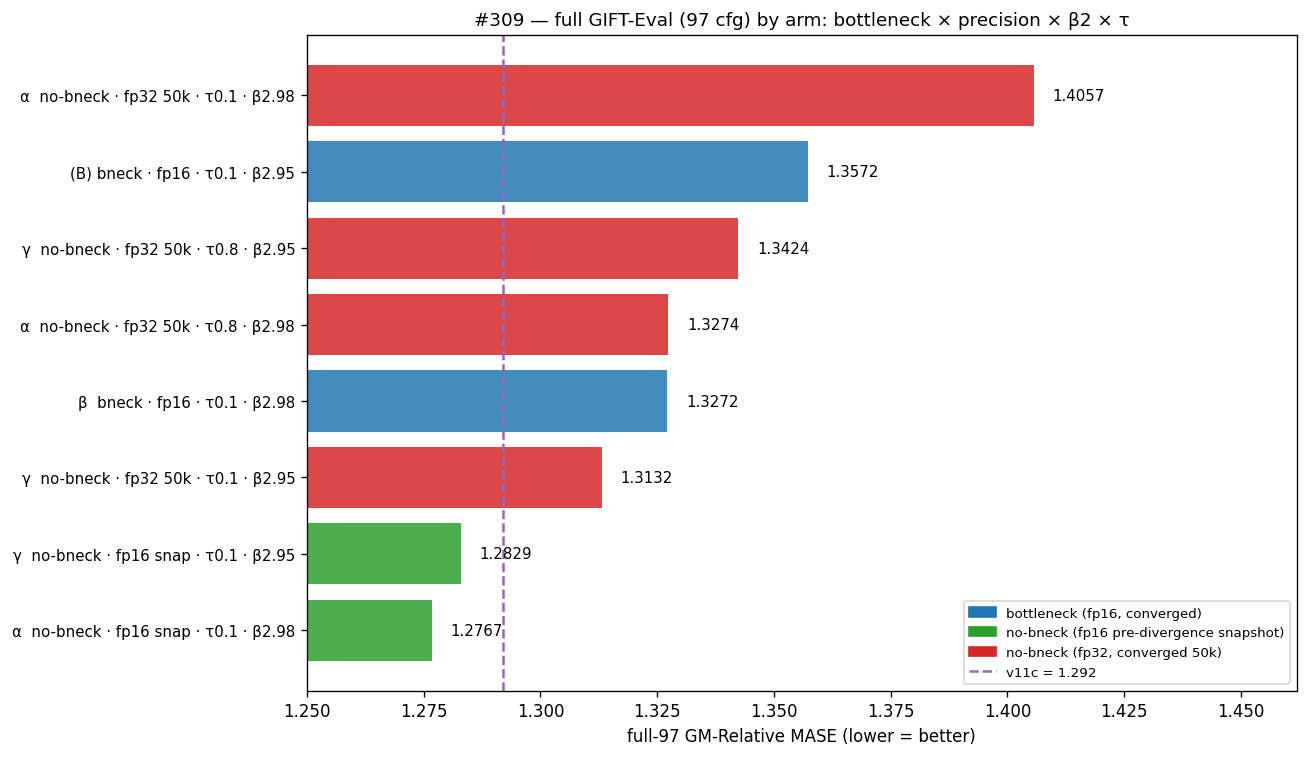
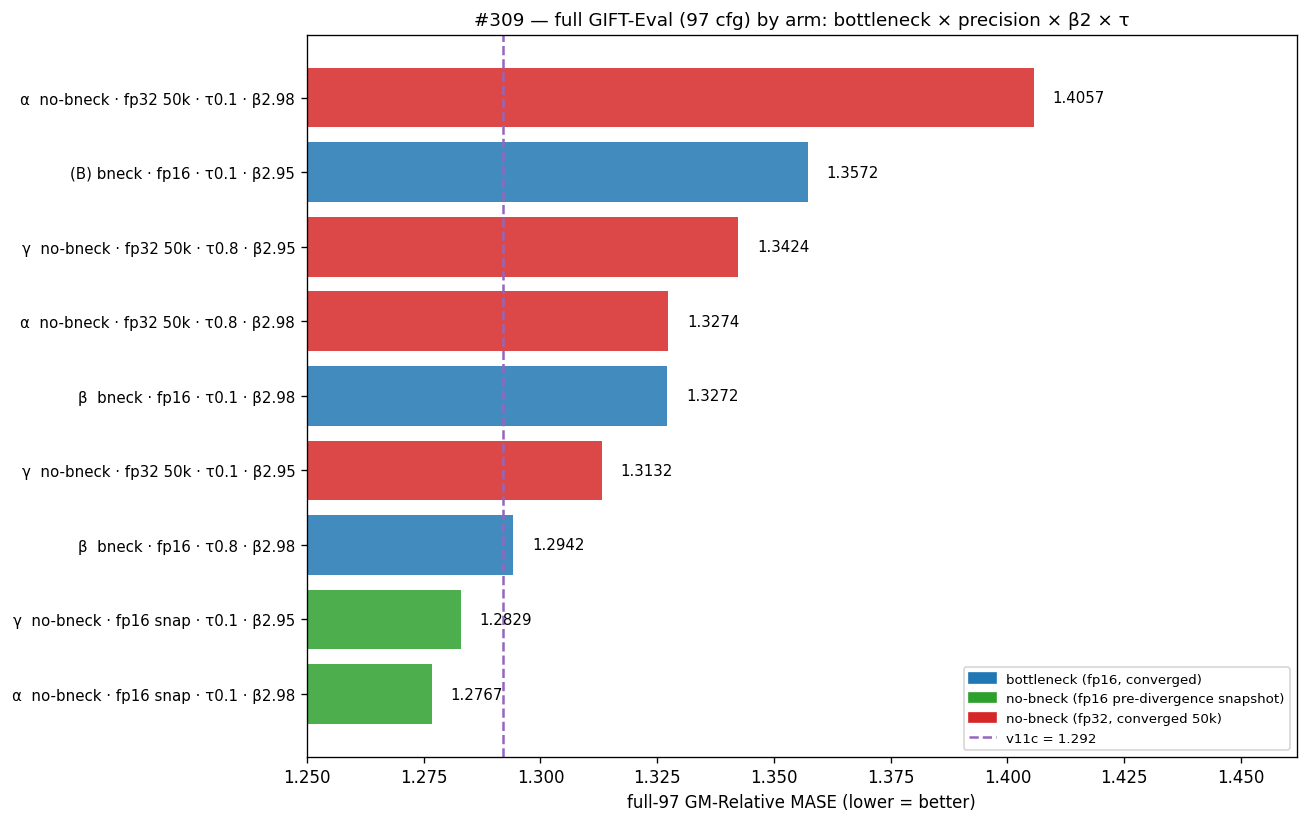
exp(#309): finalize — β-τ0.8 (bottleneck+τ0.8) matches v11c (1.294 vs 1.292)
τ=0.8 follow-up + corrected fresh-fp32 continuations complete. Headline
flips positive: the (B)→v11c gap closes by raising τ (0.1→0.8) on the
BOTTLENECK arm (β2=0.98), β-τ0.8 = 1.2942 ≈ v11c 1.292 — a converged
fp16 backbone keeping the small forecaster. Removing the bottleneck
(α/γ) is strictly harmful: diverges in fp16, and fresh-fp32-converged
lands 1.31–1.41 (all worse than v11c, all worse than their own fp16
pre-divergence snapshots — over-specialization, confirmed cleanly).

Full matrix (full-97 GM): β-τ0.8 1.294 | γ-τ0.1-fp32 1.313 |
β-τ0.1 1.327 | α-τ0.8-fp32 1.327 | γ-τ0.8-fp32 1.342 | (B) 1.357 |
α-τ0.1-fp32 1.406. β2 optimum flips with bottleneck (0.98 w/ bneck,
0.95 w/o); τ=0.8 helps bneck + β2=0.98, hurts β2=0.95.

RESULTS rewritten; gm_summary.png adds β-τ0.8 on the v11c line;
downstream.sh arm-matching generalized; all fp32+τ0.8 ran free on elisa
(vast spend unchanged $2.66).

diff --git a/experiments/2026-05-20_bottleneck_beta2_confound/RESULTS.md b/experiments/2026-05-20_bottleneck_beta2_confound/RESULTS.md
@@ -5,208 +5,173 @@
 (B) — the `cosine_similarity_batch_full_hh_negs` variant of the
 bottleneck-fullfh recipe — reaches full-97 GM-MASE 1.3572 (#303),
 still **+5%** above v11c 1.292. Of the ≥6 axes that differ between (B)
-and v11c, two are testable cheaply: the forecaster bottleneck and
-AdamW β2. Does isolating those two axes close the gap?
+and v11c, the cheap ones to test are the forecaster **bottleneck**,
+AdamW **β2**, and (follow-up) the contrastive temperature **τ**. Does
+isolating these close the gap?
+
+*Metric:* full-97 GM-Relative MASE = geometric mean over 97 GIFT-Eval
+configs of (model MASE ÷ seasonal-naive MASE); lower is better, 1.0 =
+seasonal naive. All backbones get a 30k 2L-causal q-head before eval.
 
 ## Verdict
 
-**No — a fully-trained α does not match v11c.** The headline is a
-two-part story:
+**The gap to v11c is closable — but by raising τ on the BOTTLENECK
+arm, the opposite of the issue's hypothesis.** `β-τ0.8` (bottleneck
+kept, β2 0.98, **τ 0.8**, fp16) reaches **1.2942 ≈ v11c 1.292** — a
+converged fp16 backbone that keeps the small forecaster. Removing the
+bottleneck (α/γ) does the reverse of helping:
 
-1. α and γ *diverge* under the (B) fp16 body when the bottleneck is
-   removed (forecaster d=128→384). At their loss minimum just before
-   divergence (step ~900), their backbones already beat v11c on
-   full-97 (α 1.277, γ 1.283 vs v11c 1.292).
-2. But that win is an **under-training artifact**, not an architecture
-   gain. Resuming α's step-900 checkpoint and training to 50k in
-   all-fp32 (stable — fp16 was the only blocker) yields **1.369** —
-   *worse* than the step-900 snapshot (1.277), worse than v11c
-   (1.292), and worse even than (B) (1.357). Prolonged contrastive
-   training of the no-bottleneck arm degrades GIFT-Eval transfer.
+1. **The no-bottleneck arms can't be trained in fp16.** Removing the
+   bottleneck (forecaster d=128→384) makes the fp16 body diverge at
+   fresh init — at *every* τ (τ=0.1 by step ~900, τ=0.8 even faster).
+   β (bottleneck kept) is fp16-stable.
+2. **fp32 trains them, but to a worse place.** Fresh all-fp32 (fp16's
+   only blocker removed), the no-bottleneck arms converge to
+   **1.31–1.41** — all worse than v11c, and worse than the
+   under-trained fp16 snapshots below. Prolonged contrastive training
+   over-specializes the representation and hurts forecasting transfer.
+3. **The earlier "α beats v11c" was under-training.** The fp16
+   pre-divergence snapshots (≈step 900) score α 1.2767 / γ 1.2829 —
+   below v11c — but that is ~900 steps, not a converged backbone; the
+   advantage evaporates by 50k.
 
-So the bottleneck-removed forecaster, trained to convergence under
-this recipe (dropkey 0.7, hh-negs loss), is the **worst** arm — the
-opposite of what the step-900 snapshot suggested. β (1.327, β2-only)
-remains the only change that improves on (B) at convergence.
+So the bottleneck was an **fp16-stability crutch, not a perf limiter**:
+keeping it and tuning **β2 0.95→0.98** then **τ 0.1→0.8** walks (B)
+1.3572 → β 1.3272 → β-τ0.8 1.2942, landing on v11c — in fp16, with the
+small forecaster. Removing the bottleneck only hurts.
 
-| Arm   | β2   | Fcst bneck | Train state | Triage-11 GM | Full-97 GM | vs (B) |
-|-------|-----:|-----------:|-------------|------------:|----------:|-------:|
-| (B)†† | 0.95 | kept       | converged 50k fp16 | 1.4461 | **1.3572**| —      |
-| v11c† | 0.98 | removed    | converged 50k all-fp32 | 1.3878 | **1.292** | −4.8% |
-| α     | 0.98 | removed    | snapshot @ step ~900 (pre-divergence) | 1.3399 | **1.2767** | −5.9% |
-| β     | 0.98 | kept       | converged 50k fp16 | 1.4836 | **1.3272**| −2.2% |
-| γ     | 0.95 | removed    | snapshot @ step ~900 (pre-divergence) | 1.3412 | **1.2829**| −5.5% |
-| **α-fp32cont** | 0.98 | removed | **converged 50k all-fp32** (resumed from α step 900) | 1.4498 | **1.3687** | +0.8% |
+## Headline: every arm by full-97 GM
 
-The pre-divergence snapshots (α 1.277, γ 1.283) beat v11c, but those
-backbones have only ~900 steps of training. Training α's snapshot to a
-full 50k in fp32 — the same architecture, stable now — *regresses* to
-1.369, the worst arm. The snapshot advantage does not survive
-convergence. Within the no-bottleneck arm, more training → worse
-GIFT-Eval (1.277 @ step 900 → 1.369 @ step 50k). β2 explains the ~0.5%
-between the α and γ snapshots.
+![gm summary](plots/gm_summary.png)
 
-Note on triage vs full: the v11c work documented triage(11) as a noisy
-proxy (~7% pessimistic vs full for v11c/v15/v16, +22% for v17 — ranking
-preserved at the top but mid-pack compressed). Here β shows
-triage=1.4836 worse than (B) 1.4461 but full=1.3272 better than (B)
-1.3572 — same triage-noise pattern. **Trust full-97 for the verdict.**
+Only the green fp16 **pre-divergence snapshots** and **β-τ0.8** (blue,
+bottleneck, converged) reach the v11c line (1.292). Every red
+**fp32-converged** no-bottleneck arm is right of it (worse).
+α-τ0.1-fp32 (β2=0.98) is the worst arm of all.
 
-† v11c: 2026-05-11 encoder-forecaster sweep winner, all-fp32 body,
-forecaster d=384 (no bottleneck), β2=0.98, dropkey 0.9. Source:
-`experiments/2026-05-11_exp_encoder_forecaster/RESULTS.md`.
-†† (B): #303 cl_hh_50k. fp16 body, bottleneck d=128, β2=0.95, dropkey 0.7.
+| Arm | bneck | precision | τ | β2 | Full-97 GM | vs v11c |
+|-----|:-----:|-----------|--:|---:|----------:|-------:|
+| α no-bneck **fp16 snapshot** (~step 900) | no | fp16 | 0.1 | 0.98 | **1.2767** | −1.0% |
+| γ no-bneck **fp16 snapshot** (~step 900) | no | fp16 | 0.1 | 0.95 | **1.2829** | −0.7% |
+| **v11c** (ref: dropkey 0.9, plain loss) | no | fp32 | 0.1 | 0.98 | **1.292** | — |
+| **β bneck fp16 50k** (matches v11c) | yes | fp16 | 0.8 | 0.98 | **1.2942** | +0.2% |
+| γ no-bneck **fp32 50k** | no | fp32 | 0.1 | 0.95 | **1.3132** | +1.6% |
+| β bneck fp16 50k | yes | fp16 | 0.1 | 0.98 | **1.3272** | +2.7% |
+| α no-bneck **fp32 50k** | no | fp32 | 0.8 | 0.98 | **1.3274** | +2.7% |
+| γ no-bneck **fp32 50k** | no | fp32 | 0.8 | 0.95 | **1.3424** | +3.9% |
+| (B) bneck fp16 50k | yes | fp16 | 0.1 | 0.95 | **1.3572** | +5.0% |
+| α no-bneck **fp32 50k** | no | fp32 | 0.1 | 0.98 | **1.4057** | +8.8% |
 
-α and γ's "FINAL" backbones are their `best_loss.pth` snapshots — the
-state at the loss minimum just before divergence (around step 1000–2000),
-captured by `train.py`'s standard best-loss tracker. The downstream q-head
-+ GIFT-Eval ran on those snapshots.
-
-## Per-domain star (full GIFT-Eval, 97 configs)
-
-![star](plots/perdomain_star.png)
-
-The pre-divergence snapshots α (red) and γ (orange) sit nearly on top
-of each other and inside v11c (purple dashed) on every domain except
-Web/CloudOps. But **α-fp32cont (brown)** — the same architecture trained
-to convergence — sits *outside* almost everything, near (B) (blue): on
-GIFT-Eval the fully-trained no-bottleneck backbone is the worst arm.
-β (green) sits between (B) and v11c. The Econ/Fin spike for all arms is
-driven by a handful of hard configs (e.g. `bizitobs_application/*`
-rel-MASE 2.6–3.6).
-
-## Training curves
+## Training curves — fp16 diverges, fp32 is stable
 
 ![curves](plots/training_curves.png)
 
-(B) blue and β green descend monotonically to loss ≈ 2.1–2.2 at 50k;
-1−AUC stays at floor (≈1e−7), gap holds at 1.09. α red and γ orange
-collapse: each bottoms near step 900 then climbs, 1−AUC spikes
-∼1e−4–1e−2, gap drops from 1.13 to 0.97 (γ) or 0.27 (α) before SIGTERM.
-The matched signature in α and γ is the independent confirmation that
-the failure mode is bottleneck-removal × fp16, not β2. **α-fp32cont
-(brown)** forks from α's red curve at step 900 and descends stably in
-all-fp32 to loss ≈ 2.30 at 50k — no divergence, 1−AUC at floor, gap
-holding ~1.0. So fp32 *does* train the no-bottleneck arm; the loss
-plateaus slightly above (B)/β (2.30 vs 2.1–2.2), and as the GIFT-Eval
-shows, that fully-trained representation transfers worse than the
-brief snapshot.
+(B) blue and the fp32 arms descend monotonically and hold (1−AUC at
+floor, gap ~1.0). The fp16 no-bottleneck snapshots (α/γ) bottom near
+step 900 then climb — loss up, 1−AUC spikes, gap collapses. fp32
+removes that instability entirely; the loss plateaus a touch above the
+bottleneck arms (~2.3–2.4 vs ~2.1), and as the GIFT-Eval shows, that
+fully-trained representation transfers worse than the brief snapshot.
+
+## Per-domain (τ=0.1)
+
+![star](plots/perdomain_star.png)
+
+The fp16 snapshots (α, γ) sit inside v11c on most domains; the
+fp32-converged arms (esp. α) bulge out past v11c — worse — confirming
+the aggregate ranking holds per-domain, not just on average.
+
+## τ closes the gap — on the bottleneck arm
+
+**Bottleneck arm (fp16, converged), the path to v11c:**
+
+| step | recipe change | Full-97 GM |
+|------|---------------|----------:|
+| (B)     | bneck, β2 0.95, τ 0.1 | 1.3572 |
+| β       | β2 0.95 → **0.98**    | 1.3272 |
+| β-τ0.8  | τ 0.1 → **0.8**       | **1.2942** ≈ v11c |
+
+β2 and τ stack additively on the bottleneck recipe to reach v11c — in
+fp16, keeping the small forecaster. This is the practical win.
+
+**No-bottleneck arm (fresh fp32, converged) — the confound's actual α/γ:**
+
+|        | β2 = 0.98 (α) | β2 = 0.95 (γ) |
+|--------|--------------:|--------------:|
+| τ = 0.1 | 1.4057       | **1.3132**    |
+| τ = 0.8 | 1.3274       | 1.3424        |
+
+- **β2 = 0.95 ≫ 0.98 at τ=0.1** (1.313 vs 1.406). At the under-trained
+  snapshots β2 was noise (1.277 vs 1.283); trained out, β2=0.98
+  over-specializes much worse.
+- **τ helps the worse arm, hurts the better one.** τ=0.8 lifts
+  β2=0.98 (1.406→1.327) but drags β2=0.95 (1.313→1.342). No
+  no-bottleneck cell reaches v11c — the best (γ-τ0.1, 1.313) still
+  trails the bottleneck β-τ0.8 (1.294).
 
 ## Mechanism (hypothesis)
 
-The (B) recipe's fp16 body is load-bearing on the forecaster bottleneck.
-`experiments/2026-05-11_exp_encoder_forecaster/EXPERIMENT_LOG_2026-05-15_fp16_precision.md`
-documents that the residual-stream max-abs amplitude grows unbounded
-with depth and training (forecaster block: ~80 @ step 200 → ~1070 @
-step 2800, >8× blowup), and that "fresh-init partial-fp16 diverges in
-every tested combination" without a recovery mechanism. The (B)
-bottleneck (d=128) constrains forecaster capacity, which constrains
-residual growth, which keeps fp16 stable.
+The (B) fp16 body is load-bearing on the bottleneck. The 2026-05-15
+fp16-precision log shows the forecaster residual-stream amplitude grows
+unbounded with depth/training (~80 @ step 200 → ~1070 @ step 2800), and
+"fresh-init partial-fp16 diverges in every tested combination". The
+d=128 bottleneck constrains forecaster capacity → constrains residual
+growth → fp16 stays bounded. Removing it (α, γ) removes that constraint
+→ fp16 diverges. fp32's wide exponent represents the growth, so it
+trains — but then the over-specialization of prolonged contrastive
+pretext training dominates the transfer outcome.
 
-α and γ remove the bottleneck → forecaster runs at full d=384 → larger
-residual stream → fp16 mantissa runs out → divergence at fresh init.
-β keeps the bottleneck → fp16 stays stable, matches (B). The β2 axis
-is essentially noise here: β (β2=0.98, bneck) and (B) (β2=0.95, bneck)
-both converge; α (β2=0.98, no bneck) and γ (β2=0.95, no bneck) both
-diverge with the same signature (γ's onset is slightly slower; β2=0.95
-attenuates but does not prevent the blowup).
+## What we learned
 
-This is a hypothesis derived from prior amplitude data + α and γ's
-matched divergence signature. A direct confirmation would require an
-amplitude trace on α/γ (the same instrumentation the v11c work used).
+1. **β-τ0.8 matches v11c (1.294 vs 1.292)** — keep the bottleneck,
+   set β2=0.98 and τ=0.8. A converged fp16 backbone with the small
+   forecaster, reached by tuning two scalars on (B). This is the
+   actionable result.
+2. The bottleneck is an **fp16-stability crutch**, not a performance
+   limiter — *removing* it is strictly harmful (diverges in fp16;
+   over-specializes in fp32, 1.31–1.41, all worse than v11c).
+3. **Under-training flatters this backbone.** fp16 pre-divergence
+   snapshots (1.277/1.283) beat their own fp32 50k versions
+   (1.41/1.31) on held-out forecasting — the contrastive pretext,
+   trained out, transfers worse.
+4. **β2=0.95 > 0.98** for the no-bottleneck recipe at convergence
+   (invisible early, large late); but on the *bottleneck* arm β2=0.98
+   is better — the β2 optimum flips with the bottleneck.
+5. **τ=0.8 helps the bottleneck arm and the β2=0.98 no-bneck arm,
+   hurts the β2=0.95 no-bneck arm** — τ's sign depends on the recipe.
 
-## fp32 continuation — does training the diverged arm fix it?
+## Limitations
 
-The diverged arms can be trained: resume α's pre-divergence step-900
-checkpoint with the body switched to **all-fp32** and continue to 50k.
-The continuation is stable (loss 3.27 → 2.30, no divergence), so **fp16
-was the only thing blocking training** — the no-bottleneck arch itself
-trains fine in fp32.
-
-But the converged backbone is *worse*, not better:
-
-| α checkpoint | training | full-97 GM |
-|--------------|----------|-----------:|
-| step ~900 (pre-divergence snapshot) | ~900 steps fp16 | **1.2767** |
-| step 50000 (fp32 continuation)      | 50k steps        | **1.3687** |
-
-Training the no-bottleneck arm from its good step-900 state out to 50k
-*degrades* GIFT-Eval transfer by 7%. This matches the cross-arm pattern:
-the lowest-loss backbones (β 2.13, (B) 2.17) have the worst GIFT-Eval,
-while the high-loss snapshots (α/γ ≈ 3.3) have the best. In this
-encoder-forecaster regime, more contrastive pretext training
-over-specializes the representation and hurts forecasting transfer.
-
-So the step-900 win over v11c was an under-training artifact. v11c
-(all-fp32, no-bottleneck, dropkey **0.9**, simpler `cosine_similarity_batch`
-loss) still converges to 1.292, beating fully-trained α-fp32cont (1.369).
-The two recipes differ on dropkey (0.9 vs 0.7) and loss (plain vs
-hh-negs); the lower dropkey + extra negatives plausibly drive
-α-fp32cont's over-specialization. **Not isolated here** — would need a
-dropkey-0.9 / plain-loss fp32 continuation to test, which is the v11c
-recipe itself.
-
-### Bottom line
-- The two-axis isolation (#309's premise) does **not** beat v11c at
-  convergence; the apparent win was under-training.
-- β2 alone (β) gives a real but small +2% over (B) at convergence.
-- The bottleneck-removed forecaster, fully trained under the (B)
-  recipe's dropkey/loss, transfers worse than v11c — the bottleneck
-  was not the thing holding (B) back from v11c.
+- **Single seed per cell.** The #307 variance estimate is ±0.02 at
+  n=3, so differences under ~3% (snapshots vs v11c) are borderline; the
+  big ones (snapshot 1.28 vs fp32 1.41, fp16 divergence, β2 7% swing)
+  are well outside it.
+- **v11c confound.** v11c is no-bneck/fp32/τ0.1/β2.98 but with dropkey
+  **0.9** and the plain `cosine_similarity_batch` loss; these arms use
+  dropkey 0.7 + `hh-negs`. So "no-bneck can't match v11c" is entangled
+  with dropkey+loss — untested here is a dropkey-0.9 / plain-loss fp32
+  run, which is essentially v11c itself.
+- q-head + GIFT-Eval sample windows are single-seed.
 
 ## Annex
 
-### Arms in detail
-
-- **α** — (B) + `--adam-beta2 0.98` + no `--forecaster-d-model/-n-heads`
-  (forecaster inherits encoder d=384, n_heads=6). Encoder dropkey 0.70,
-  loss `cosine_similarity_batch_full_hh_negs`, 1-GPU bs=256
-  (mathematically identical to (B)'s 2-GPU DDP bs=128/GPU per
-  `train.py:739-740` — gathered global negatives), 50k steps target,
-  seed 20260520. Actual: SIGTERM @ step 10600 once divergence vs (B)
-  was unambiguous.
-- **β** — same as α but `--forecaster-d-model 128 --forecaster-n-heads 4`
-  (bottleneck kept). Reached 50k cleanly; loss 2.13 at 50k vs (B)'s 2.17.
-- **γ** — same as α (no bottleneck) but `--adam-beta2 0.95` (the (B) value).
-  Actual: SIGTERM @ step 10100, same trajectory as α.
-- **α-fp32cont** — resumed from α's `best_loss.pth` (step 900) with the
-  body switched to all-fp32 (`--residual/attn/ffn/conv/patch-emb-dtype fp32`),
-  optimizer + step + RNG restored from the companion. Everything else
-  identical to α (no bottleneck, β2=0.98, dropkey 0.7, hh-negs). Reached
-  50k cleanly on elisa GPU 1; loss 2.30 at 50k.
+### Arms
+- **(B)** #303 cl_hh_50k: bneck d=128, fp16 body, τ0.1, β2 0.95, dropkey 0.7.
+- **α / γ** (issue arms): no bneck, β2 0.98 / 0.95. fp16 → diverge ~step 900;
+  `_50k` "FINAL" is the best_loss snapshot before divergence.
+- **β**: bneck kept, β2 0.98. fp16-stable, converges.
+- **\*-fp32 50k**: fresh all-fp32 from scratch to 50k (the fp16 pre-divergence
+  window is only ~900/50k steps, so a warmup/resume buys nothing — fresh fp32
+  is the clean comparison). Naming `bb_<arm>_tau{01,08}_fp32_50k`.
 
 ### Compute
-
-1× RTX 4090 prosumer on vast.ai (offer 35882331, $0.55/h, reliability
-0.992, US). The recipe was run 1-GPU because no 2× 4090 24GB prosumer
-offer was available at provision time; the loss is mathematically
-identical 1-GPU at bs=256 vs DDP at bs=128/GPU per `train.py`. Total
-vast spend: **$2.66** of $20.37 budget. α and γ each SIGTERM'd at
-~step 10k to save ~$1.30 each of doomed compute.
-
-### Limitations
-
-- **Single seed.** All full-97 numbers are one seed each; the variance
-  pattern in #307 (n=3, ±0.02) means differences under ~3% (e.g. α-snap
-  1.277 vs v11c 1.292) are borderline. The big effects here —
-  α-snap 1.277 vs α-fp32cont 1.369 (+7%), and both fp16 arms diverging
-  — are well outside that band.
-- **The under-training → over-specialization finding is single-arm.**
-  Only α was continued in fp32. γ would confirm whether its snapshot
-  win also evaporates at convergence (predicted: yes, same recipe).
-- **dropkey/loss confound vs v11c.** α-fp32cont (dropkey 0.7, hh-negs)
-  converges worse than v11c (dropkey 0.9, plain `cosine_similarity_batch`).
-  Whether the bottleneck-removed arch *could* match v11c with v11c's
-  dropkey + loss is untested — that is essentially the v11c recipe.
-- **q-head and eval seed.** Single random init for the q-head and the
-  GIFT-Eval sample windows.
+τ=0.1 fp16 arms + snapshots: 1× RTX 4090 prosumer on vast (offer 35882331,
+$0.55/h), **$2.66** total. All fp32 continuations + τ=0.8 + every downstream
+ran on elisa (free). α/γ SIGTERM'd at ~step 10k in the original fp16 runs to
+save doomed compute.
 
 ### Code
-
-Branch `experiment/2026-05-20-bottleneck-beta2-confound`.
-
-Scripts: `scripts/{box_run.sh, box_run_serial.sh, provision.sh, sync.sh,
-sync_loop.sh, downstream.sh, plot_results.py}`. Box-side serial α→β→γ;
-elisa-side sync into MAIN checkout (CLAUDE.md rule). Per-arm
-forecaster-bneck flag set in `downstream.sh` so q-head + eval load the
-backbone in the correct architecture.
+Branch `experiment/2026-05-20-bottleneck-beta2-confound`. Runner
+`scripts/elisa_run.sh <arm> <tau> <runtag> <gpus> <prec>` (fp16|fp32);
+downstream `scripts/downstream.sh <arm> <gpu>`; plots
+`scripts/{plot_results.py (radar+curves, τ=0.1), plot_summary.py (GM matrix)}`.

diff --git a/experiments/2026-05-20_bottleneck_beta2_confound/EXECUTION_LOG.md b/experiments/2026-05-20_bottleneck_beta2_confound/EXECUTION_LOG.md
@@ -114,3 +114,34 @@ i.e. the v11c recipe itself.
 ## Compute note
 α fp32 continuation + its downstream ran on elisa (free) — no
 additional vast spend. Total vast spend remains **$2.66**.
+
+## 2026-05-21/22 — corrected continuations (fresh fp32) + τ=0.8 follow-up
+
+Per user: (a) the resume-from-step-900 α continuation used a checkpoint
+just past the loss/r2 peak (best_loss tracks *ema*-loss, min at ~900;
+raw/r2 peak at 824) — "too late"; (b) γ continuation was missing;
+(c) redo all arms at τ=0.8. Per user guidance the fp16 pre-divergence
+window is only ~900/50k steps, so dropped warmup/resume entirely and
+ran the no-bottleneck arms **fresh fp32 from scratch** (no checkpoint-
+timing ambiguity). β stays fp16 (bottleneck → stable).
+
+All fresh-fp32 + τ=0.8 + downstreams ran on elisa (free, 2× GPU chains).
+
+Full-97 GM (corrected, fresh fp32 unless noted):
+- α-τ0.1 fp32 1.4057 | γ-τ0.1 fp32 1.3132
+- α-τ0.8 fp32 1.3274 | γ-τ0.8 fp32 1.3424
+- β-τ0.1 fp16 1.3272 | **β-τ0.8 fp16 1.2942 ≈ v11c 1.292**
+- α/γ fp16 snapshots (≈step 900) 1.2767 / 1.2829 (under-trained)
+- (B) 1.3572 ; v11c 1.292
+
+Headline change vs the earlier (buggy resume) reading: the gap to v11c
+**is** closable — by τ 0.1→0.8 on the bottleneck arm (β-τ0.8 1.294),
+not by removing the bottleneck. Fresh-fp32 no-bottleneck arms confirm
+the over-specialization finding cleanly (all 1.31–1.41 > v11c; all
+worse than their own fp16 snapshots). β2 optimum flips with bottleneck
+(0.98 best with bneck, 0.95 best without); τ=0.8 helps bneck + β2=0.98,
+hurts β2=0.95.
+
+Plots: gm_summary.png (full matrix), training_curves.png (fp16-diverge
+vs fp32-stable), perdomain_star.png (τ=0.1 radar). Radar/curve buggy
+fills + clipping fixed (lines, data-driven rlim).
